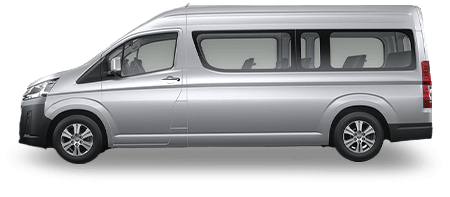
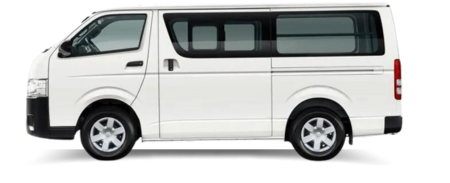
van

diff --git a/index.html b/index.html
@@ -400,7 +400,7 @@
         <div class="col-sm-6 col-md-4">
           <div class="box ">
             <div class="img-box">
-              <img src="images/van.png" alt="" />
+              <img src="images/vans.png" alt="" />
             </div>
             <div class="detail-box">
               <h5>

diff --git a/service.html b/service.html
@@ -121,7 +121,7 @@
         <div class="col-sm-6 col-md-4">
           <div class="box ">
             <div class="img-box">
-              <img src="images/van.png" alt="" />
+              <img src="images/vans.png" alt="" />
             </div>
             <div class="detail-box">
               <h5>
